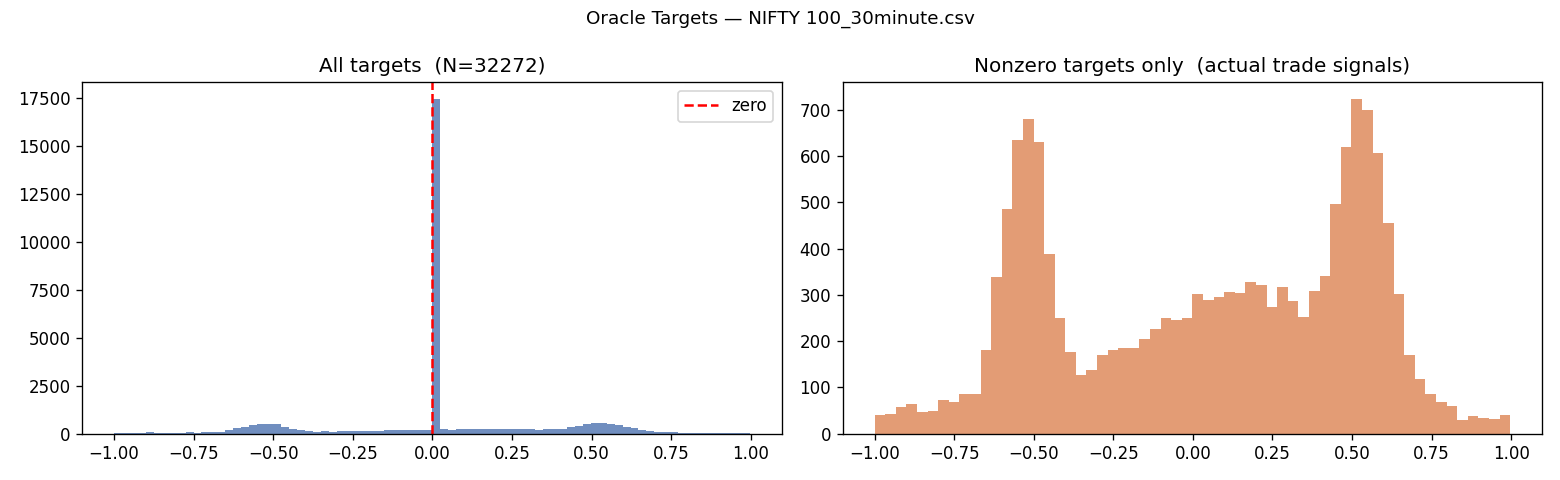
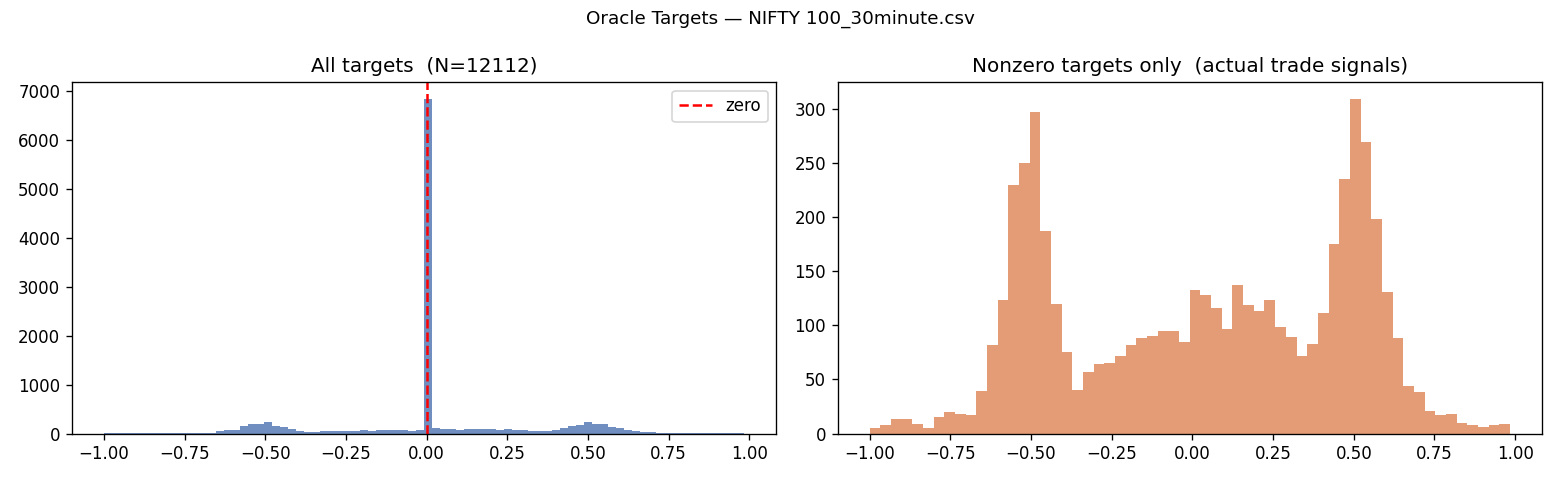
ch

diff --git a/finetune_tokenizer.py b/finetune_tokenizer.py
@@ -17,8 +17,9 @@ try:
 except ImportError:
     comet_ml = None
 
-# Ensure project root is in path
-sys.path.append("../")
+# Ensure Kronos_finetune project root is in path to resolve dependencies
+_base_dir = os.path.dirname(__file__) if ("__file__" in locals() or "__file__" in globals()) else os.getcwd()
+sys.path.insert(0, os.path.abspath(os.path.join(_base_dir, "../Kronos_finetune")))
 from config import Config
 from dataset import QlibDataset
 from model.kronos import KronosTokenizer

diff --git a/audit_training.py b/audit_training.py
@@ -132,6 +132,8 @@ def _build_one_asset(csv_path: Path, fe):
         if time_col:
             df[time_col] = pd.to_datetime(df[time_col])
             df = df.set_index(time_col).sort_index()
+            if isinstance(df.index, pd.DatetimeIndex):
+                df = df[(df.index >= '2015-01-09') & (df.index <= '2019-12-12')]
         else:
             try: df.index = pd.to_datetime(df.index)
             except: pass

diff --git a/oracle_audit.py b/oracle_audit.py
@@ -372,6 +372,8 @@ def _load_ohlc_with_atr(filepath: str) -> pd.DataFrame:
         df = df.set_index(time_col)
     
     df = df.sort_index()
+    if isinstance(df.index, pd.DatetimeIndex):
+        df = df[df.index >= '2021-01-01']
     
     for required in ("open", "high", "low", "close"):
         if required not in df.columns:
